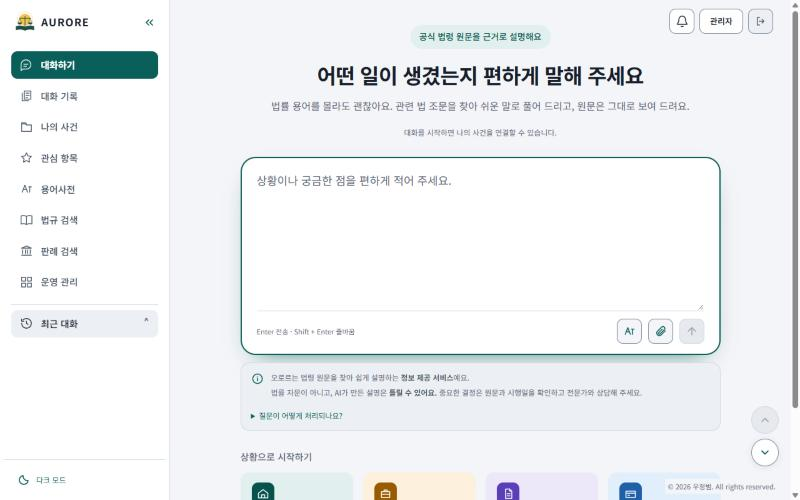
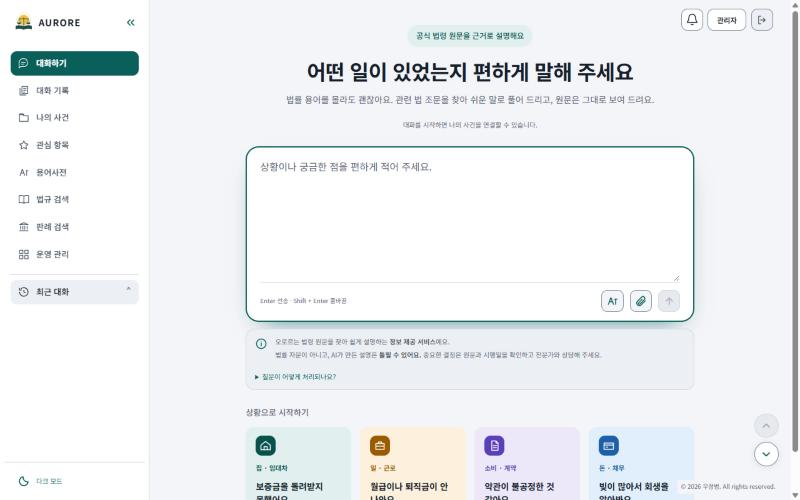
Refresh AURORE home and answer captures

diff --git a/app/project-data.ts b/app/project-data.ts
@@ -82,7 +82,7 @@ export const projects: PortfolioProject[] = [
     screenshotNote: '실제 배포 사이트(www.aurore-law.com)에서 2026-11-22에 직접 촬영한 화면입니다. 지인 테스트용으로 열려 있고 접속 코드는 123456이며, 개발자 PC에서 운영 중이라 PC가 꺼져 있으면 접속되지 않을 수 있습니다.',
     screenshots: [
       { src: '/aurore/home.jpg', title: '대화 시작', headline: '법률 용어보다, 나의 상황부터.', path: '/', description: '로그인 후 처음 보는 화면입니다. 법을 몰라도 상황을 문장으로 입력하면 법령 원문을 근거로 쉬운 말로 풀어 줍니다. 정보 제공 서비스라는 고지와 처리 방식 안내를 입력창 바로 아래에 둡니다.', points: ['사용법: 상황이나 궁금한 점을 입력창에 적고 Enter로 전송합니다', '아래 "상황으로 시작하기" 카드로 주거·근로 등 흔한 상황에서 시작할 수 있습니다', '왼쪽 메뉴에서 대화 기록, 나의 사건, 용어사전, 법규·판례 검색, 운영 관리로 이동합니다'] },
-      { src: '/aurore/answer.jpg', title: '근거 기반 답변', headline: '답은 쉽게, 근거는 원문 그대로.', path: '/?chat=…', description: '"전세 계약이 끝났는데 집주인이 보증금을 돌려주지 않아요" 질문에 대한 실제 답변 화면입니다. 오른쪽 패널에 주택임대차보호법 제3조의3 제1항이 "원문 확인됨"으로 인용되고, 답변 속 법률 용어는 하이라이트됩니다.', points: ['모델이 고른 근거를 코드가 법제처 원문과 글자 단위로 대조한 뒤에만 인용합니다', '법률 용어(임차권등기명령)를 누르면 용어사전 풀이를 볼 수 있습니다', '답변 아래 "도움 됐어요/개선이 필요해요"로 피드백을 남기고, 도움 받을 곳(법률구조공단 132)을 함께 안내합니다'] },
+      { src: '/aurore/answer.jpg', title: '근거 기반 답변', headline: '답은 쉽게, 근거는 원문 그대로.', path: '/?chat=…', description: '"월급이 두 달째 밀렸어요. 사장님에게 무엇을 요구할 수 있고 어디에 신고해야 하나요?" 질문에 대한 실제 답변 화면입니다. 한 줄 결론 아래에 "이렇게 해 보세요 / 알아 둘 내용 / 주의할 점"이 번호 단계로 나오고, 문장마다 근거 조문 칩(근로기준법 제43조 등)이 붙습니다. 오른쪽 패널에는 선택한 조문의 법제처 원문이 "원문 확인됨"으로 표시됩니다.', points: ['모델이 고른 근거를 코드가 법제처 원문과 글자 단위로 대조한 뒤에만 근거 칩을 붙입니다', '근거 칩을 누르면 오른쪽에 조문 원문이 열리고, 답변 속 법률 용어(임금·시효·고소)는 하이라이트되어 용어사전과 연결됩니다', '고용노동부 고객상담센터(1350)·법률구조공단(132) 같은 도움 받을 곳과 확인해 보세요 질문, 답변 피드백 버튼을 함께 안내합니다'] },
       { src: '/aurore/search.jpg', title: '법규 검색', headline: '이름으로 찾고, 원문으로 연결.', path: '/legals', description: '저장된 5,631개 법령을 이름으로 검색하는 화면입니다. 법률·시행령·시행규칙이 구분 배지로 표시되고 법제처 식별자(MOLEG ID)가 함께 보입니다.', points: ['사용법: 법령 이름(예: 근로기준법)을 입력하고 검색합니다', '결과마다 법률·시행령·시행규칙 배지와 관심 항목(별표) 버튼이 있습니다', '"시행본 조회"로 해당 법령의 시행 이력으로 이동합니다'] },
       { src: '/aurore/versions.jpg', title: '시행 이력 탐색', headline: '같은 법령, 다른 시점.', path: '/legals/:id/versions', description: '하나의 법령에 저장된 시행본을 시행일 기준으로 살펴보는 화면입니다. 공포일과 법령 키를 확인하고 조문 보기 또는 해당 시행본 원문으로 이어집니다.', points: ['사용법: 기준일을 입력하면 그날 시행 중이던 시행본을 조회합니다', '시행본이 둘 이상이면 두 시행본의 조문·부칙 변경을 나란히 비교할 수 있습니다', '"조문 보기"와 "해당 시행본 원문"으로 법제처 원문까지 연결됩니다'] },
       { src: '/aurore/provisions.jpg', title: '조문 보기', headline: '원문도, 비교도, 제목 옆에서.', path: '/legals/:id/versions/:versionId', description: '주택임대차보호법 2026-01-02 시행본의 조문과 부칙을 보여 주는 화면입니다. 제목 옆 도구 버튼으로 법제처 원문을 열거나 다른 시행본과 비교로 이동합니다.', points: ['사용법: 조문 번호(예: 제6조의2)나 본문 키워드(예: 보증금)로 검색합니다', '제목 옆 첫 번째 버튼은 법제처 원문, 두 번째 버튼(⇄)은 다른 시행본과 비교', '비교 버튼은 비교할 시행본이 둘 이상 저장된 법령에서만 나타납니다'] },
